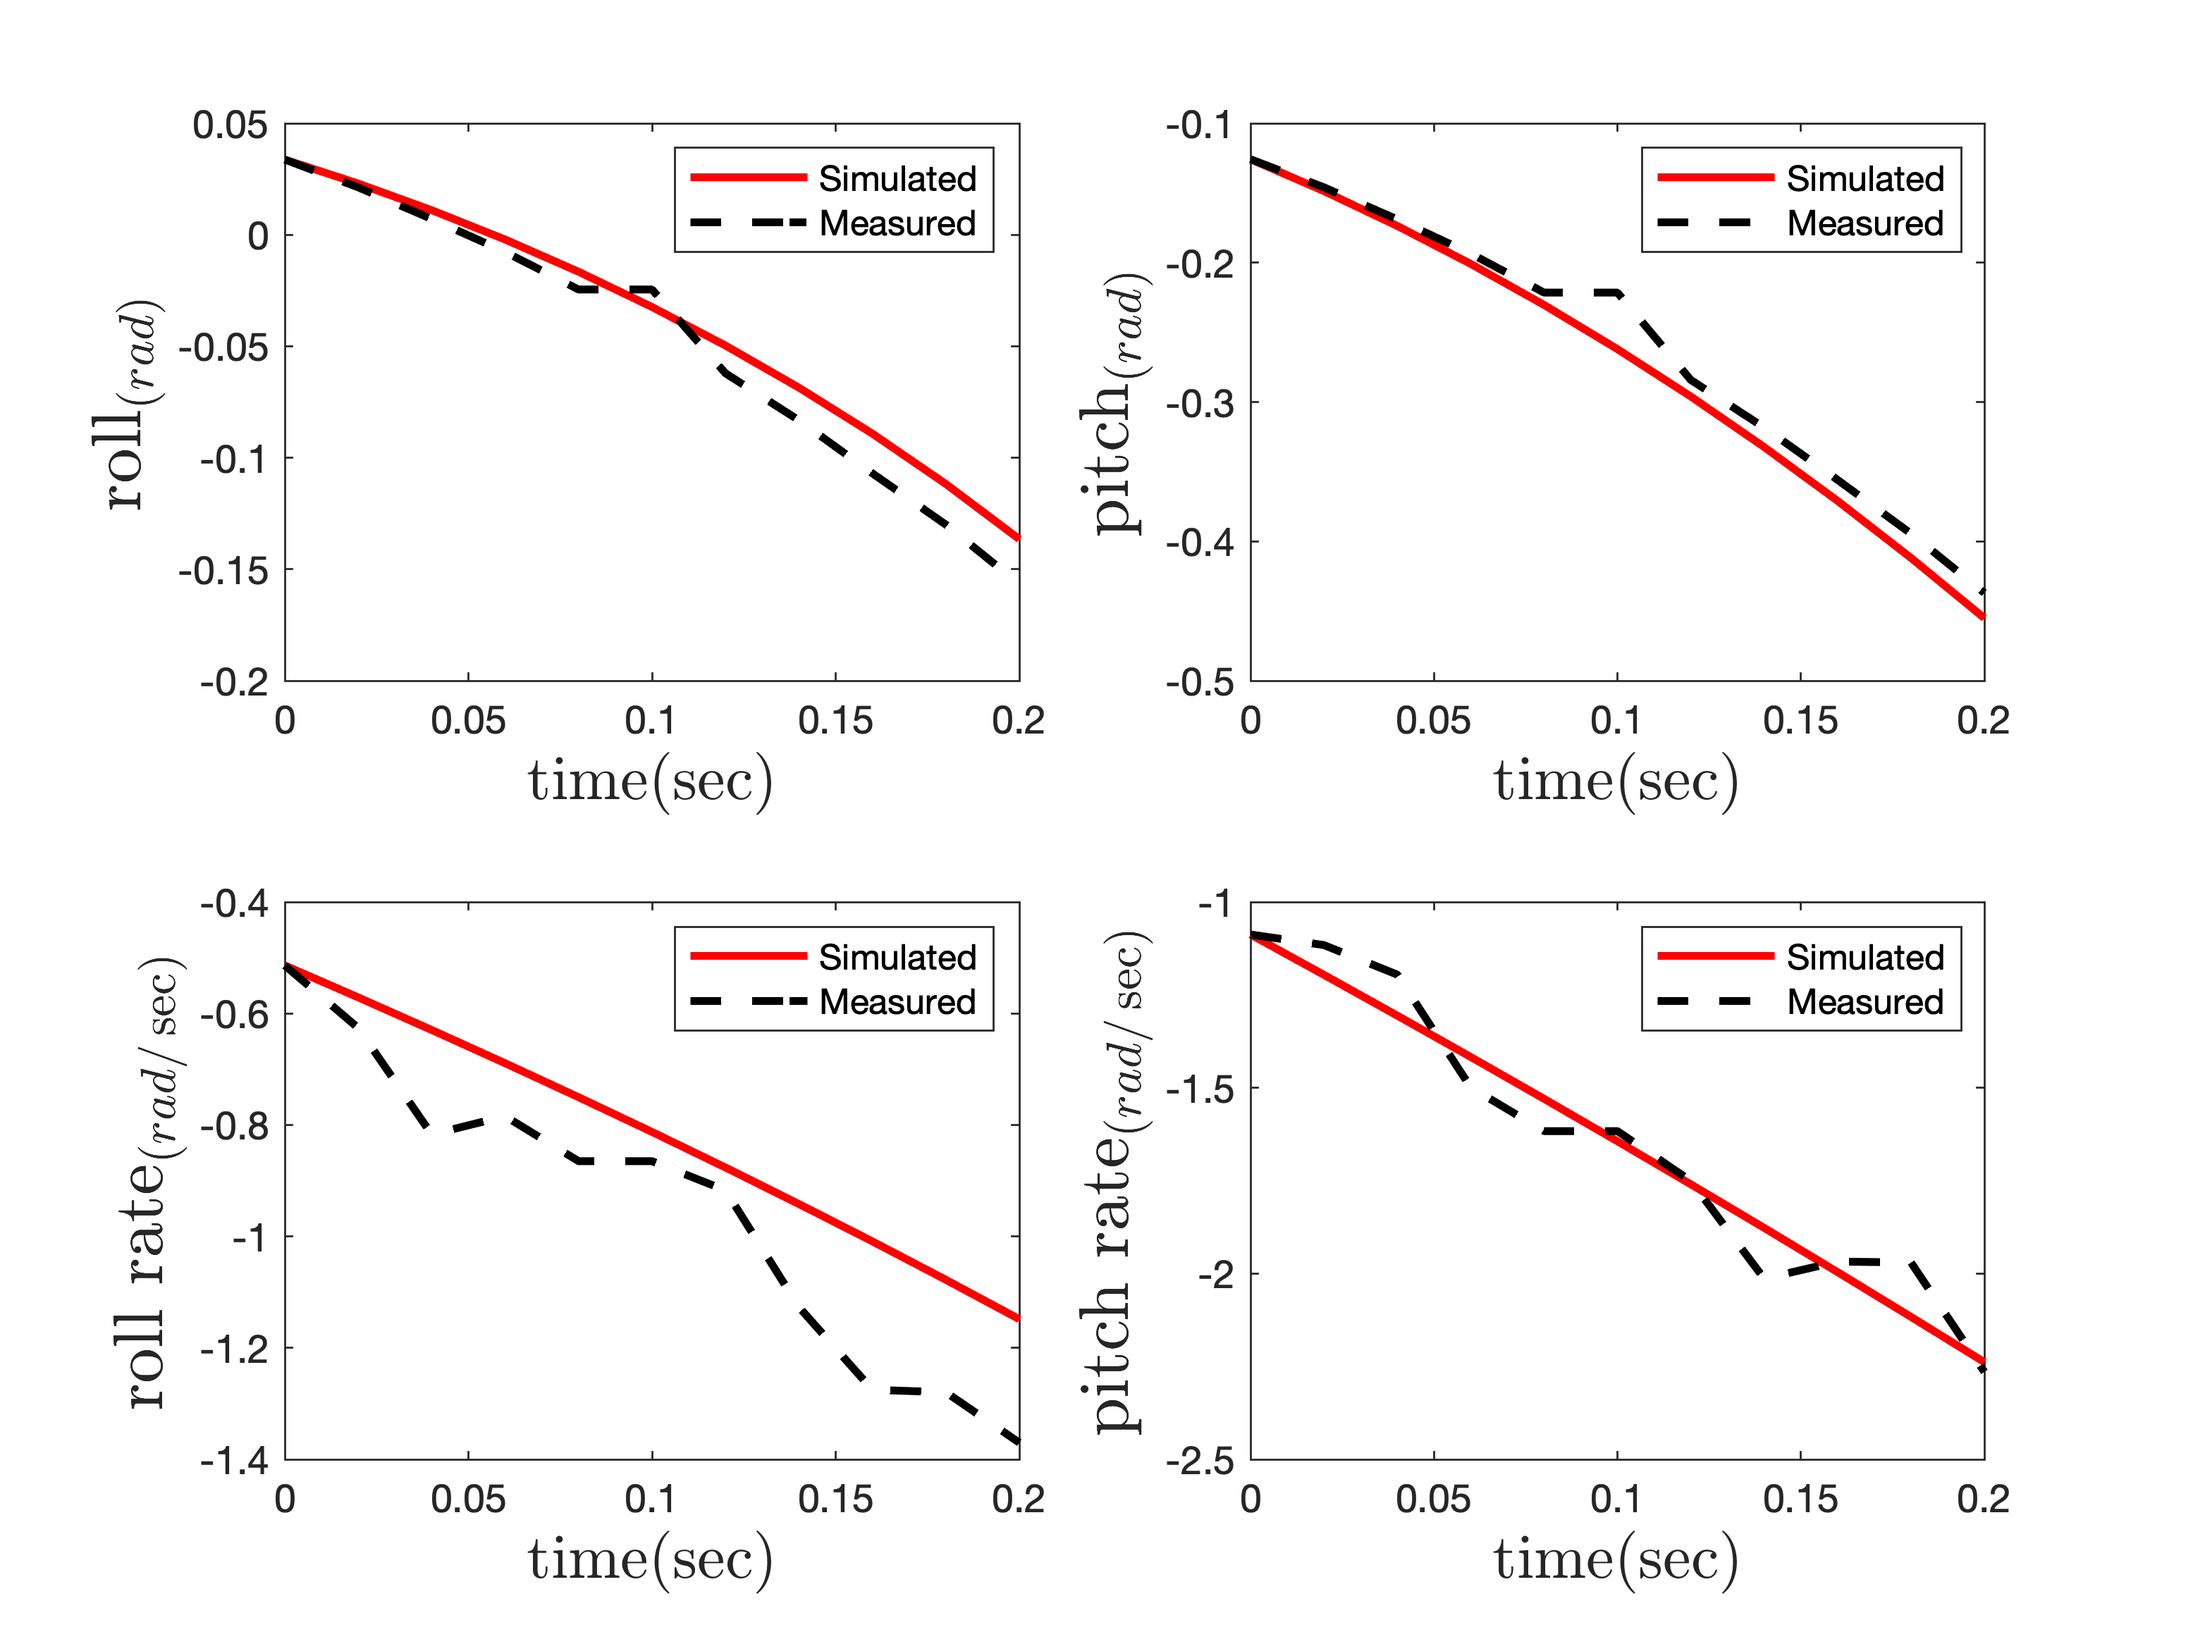
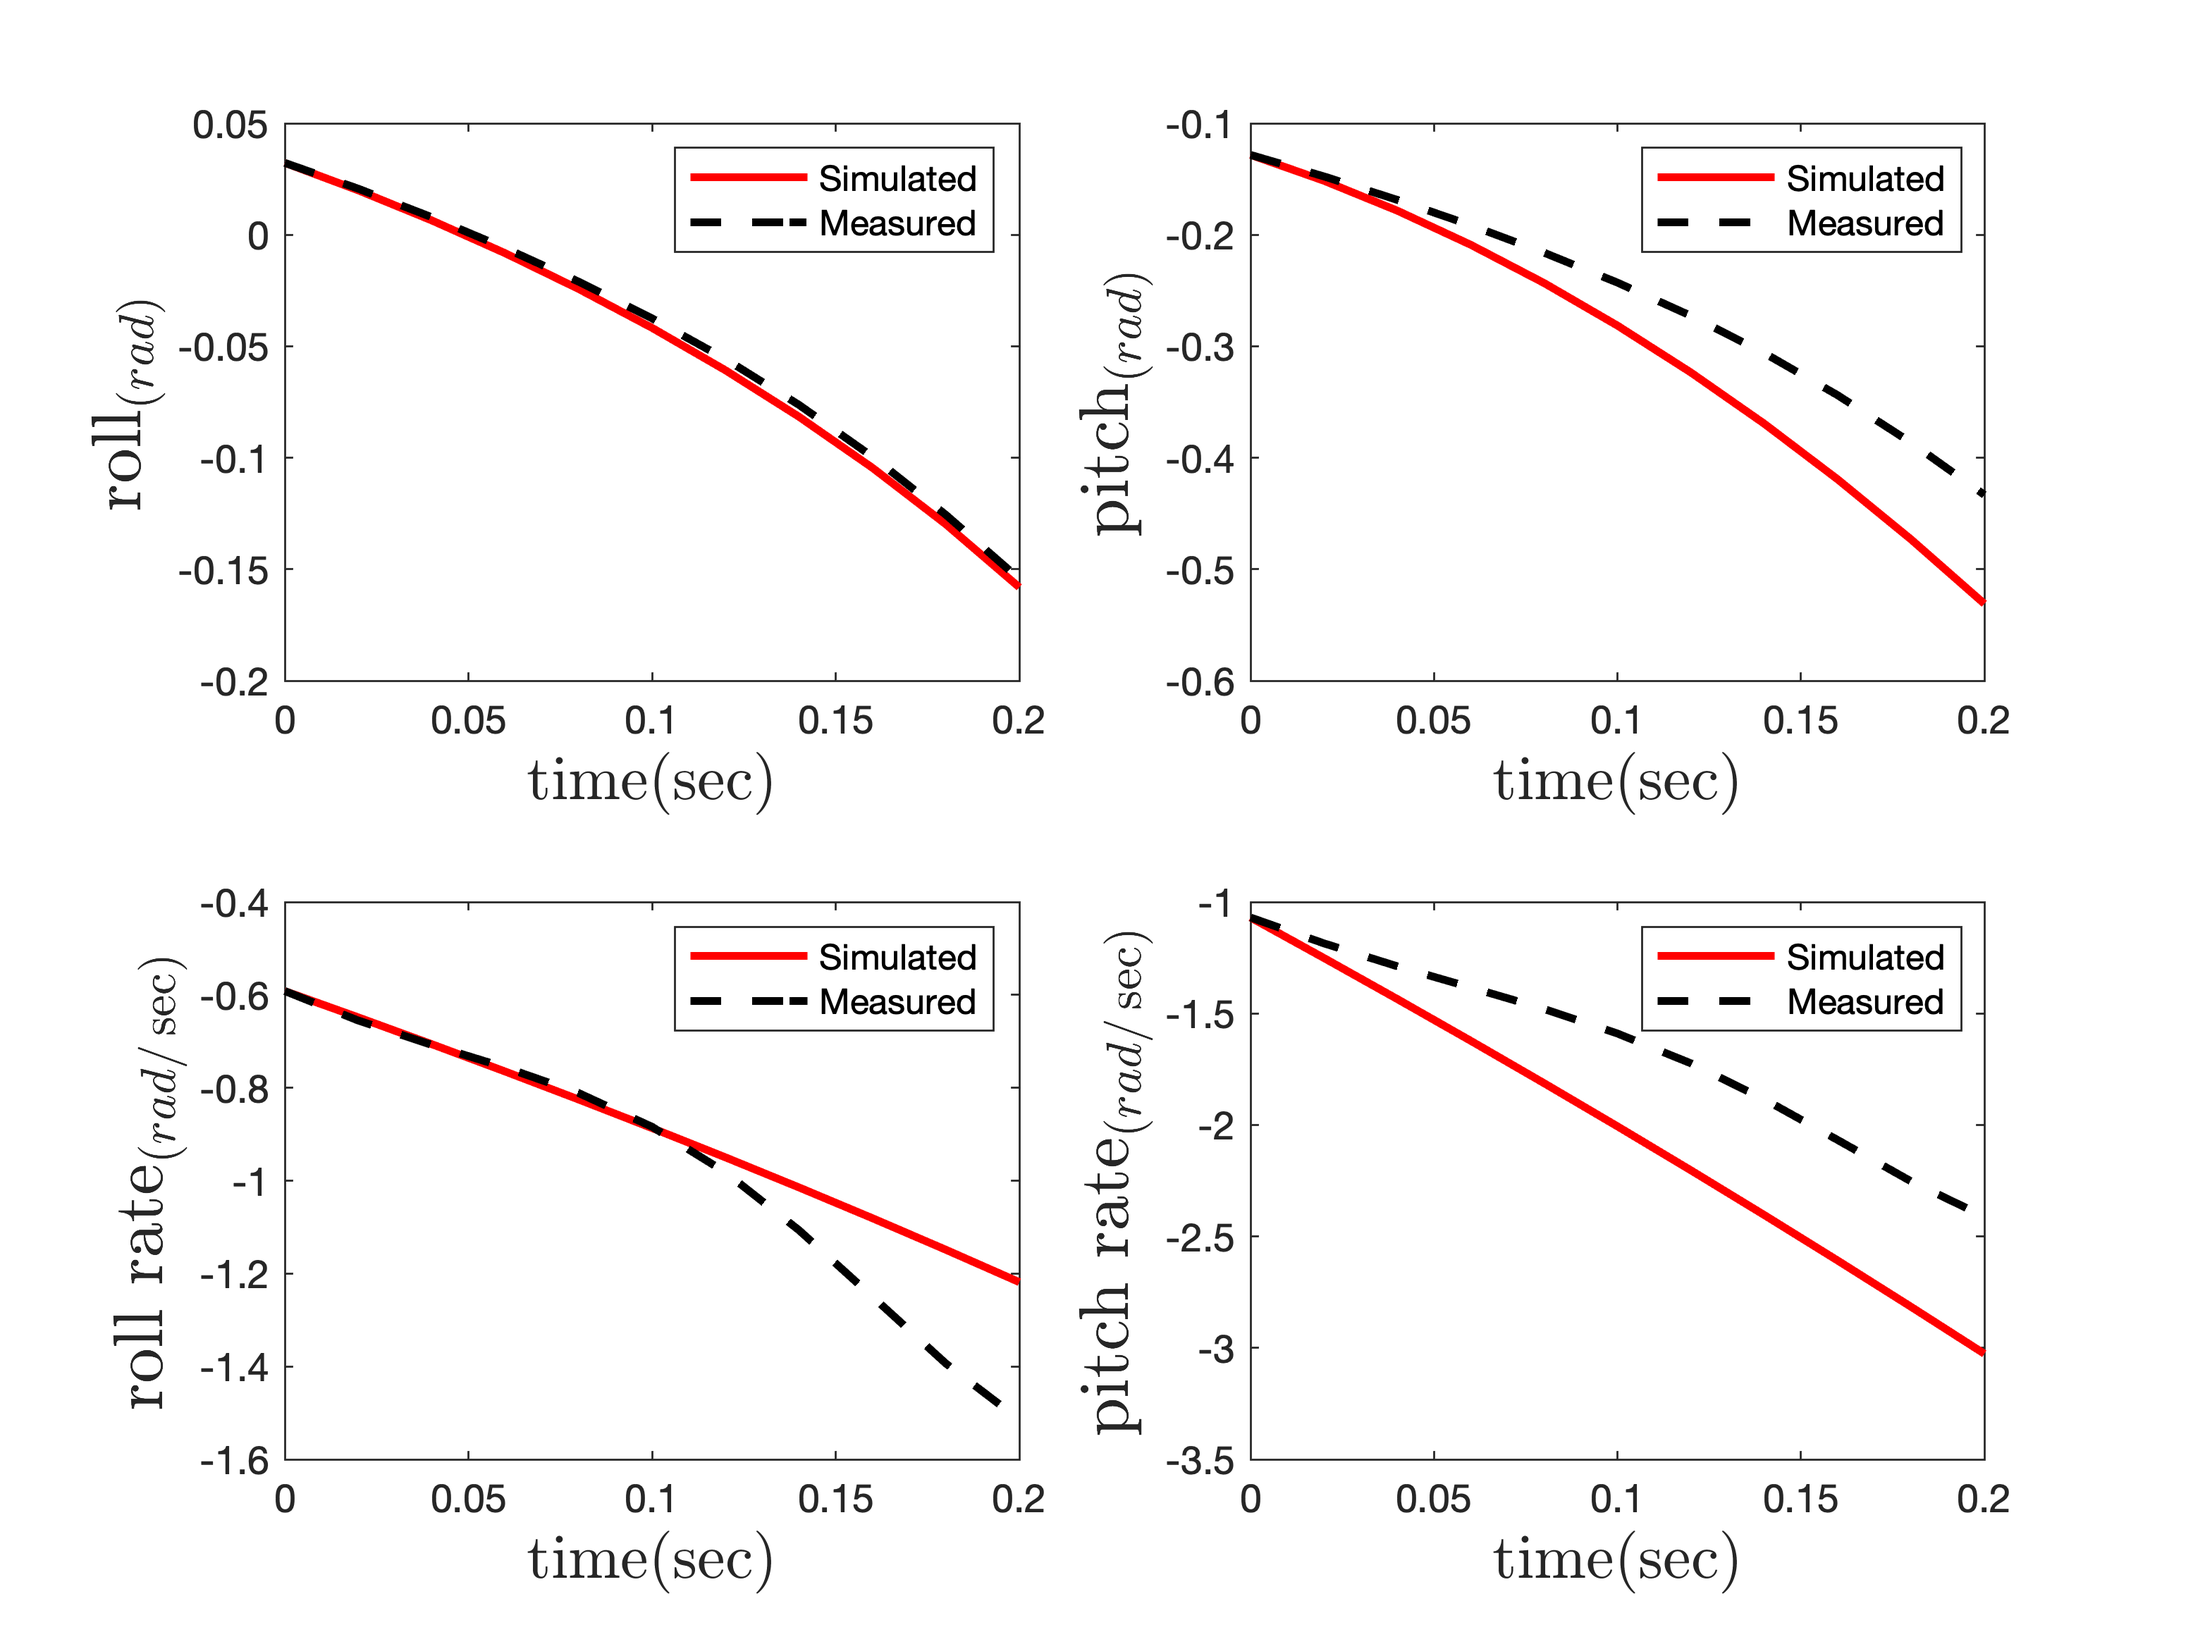
add low pass filter and add new ps for solve

diff --git a/Code/Simulink/Quadcopter/RCP/OpenLoop/Roll-Pitch/parameter_estimation/PS_VI.m b/Code/Simulink/Quadcopter/RCP/OpenLoop/Roll-Pitch/parameter_estimation/PS_VI.m
@@ -1,6 +1,7 @@
 load('../Scenario_VI');
-roll  = AHRS(:, 1);
 AHRS = -AHRS;
+AHRS = lowpass(AHRS, 50, 1e3);
+roll  = AHRS(:, 1);
 pitch = AHRS(:, 2);
 p     = AHRS(:, 4);
 q     = AHRS(:, 5);

diff --git a/Code/Simulink/Quadcopter/RCP/OpenLoop/Roll-Pitch/parameter_estimation/PS_VIII.m b/Code/Simulink/Quadcopter/RCP/OpenLoop/Roll-Pitch/parameter_estimation/PS_VIII.m
@@ -1,5 +1,6 @@
 load('../Scenario_VIII');
 AHRS = -AHRS;
+AHRS = lowpass(AHRS, 50, 1e3);
 roll  = AHRS(:, 1);
 pitch = AHRS(:, 2);
 p     = AHRS(:, 4);

diff --git a/Code/Simulink/Quadcopter/RCP/OpenLoop/Roll-Pitch/parameter_estimation/PS_III.m b/Code/Simulink/Quadcopter/RCP/OpenLoop/Roll-Pitch/parameter_estimation/PS_III.m
@@ -1,5 +1,6 @@
 load('../Scenario_III');
 AHRS = -AHRS;
+AHRS = lowpass(AHRS, 50, 1e3);
 roll  = AHRS(:, 1);
 pitch = AHRS(:, 2);
 p     = AHRS(:, 4);

diff --git a/Code/Simulink/Quadcopter/RCP/OpenLoop/Roll-Pitch/parameter_estimation/PS_VII.m b/Code/Simulink/Quadcopter/RCP/OpenLoop/Roll-Pitch/parameter_estimation/PS_VII.m
@@ -1,5 +1,6 @@
 load('../Scenario_VII');
 AHRS = -AHRS;
+AHRS = lowpass(AHRS, 50, 1e3);
 roll  = AHRS(:, 1);
 pitch = AHRS(:, 2);
 p     = AHRS(:, 4);

diff --git a/Code/Simulink/Quadcopter/RCP/OpenLoop/Roll-Pitch/parameter_estimation/PS_II.m b/Code/Simulink/Quadcopter/RCP/OpenLoop/Roll-Pitch/parameter_estimation/PS_II.m
@@ -1,5 +1,6 @@
 load('../Scenario_II');
 AHRS = -AHRS;
+AHRS = lowpass(AHRS, 50, 1e3);
 roll  = AHRS(:, 1);
 pitch = AHRS(:, 2);
 p     = AHRS(:, 4);

diff --git a/Code/Simulink/Quadcopter/RCP/OpenLoop/Roll-Pitch/parameter_estimation/PS_IV.m b/Code/Simulink/Quadcopter/RCP/OpenLoop/Roll-Pitch/parameter_estimation/PS_IV.m
@@ -1,5 +1,6 @@
 load('../Scenario_IV');
 AHRS = -AHRS;
+AHRS = lowpass(AHRS, 50, 1e3);
 roll  = AHRS(:, 1);
 pitch = AHRS(:, 2);
 p     = AHRS(:, 4);

diff --git a/Code/Simulink/Quadcopter/RCP/OpenLoop/Roll-Pitch/parameter_estimation/PS_IX.m b/Code/Simulink/Quadcopter/RCP/OpenLoop/Roll-Pitch/parameter_estimation/PS_IX.m
@@ -1,5 +1,6 @@
 load('../Scenario_IX');
 AHRS = -AHRS;
+AHRS = lowpass(AHRS, 50, 1e3);
 roll  = AHRS(:, 1);
 pitch = AHRS(:, 2);
 p     = AHRS(:, 4);

diff --git a/Code/Simulink/Quadcopter/RCP/OpenLoop/Roll-Pitch/parameter_estimation/PS_I.m b/Code/Simulink/Quadcopter/RCP/OpenLoop/Roll-Pitch/parameter_estimation/PS_I.m
@@ -1,5 +1,6 @@
 load('../Scenario_I');
 AHRS = -AHRS;
+AHRS = lowpass(AHRS, 50, 1e3);
 roll  = AHRS(:, 1);
 pitch = AHRS(:, 2);
 p     = AHRS(:, 4);

diff --git a/Code/Simulink/Quadcopter/RCP/OpenLoop/Roll-Pitch/parameter_estimation/PS_V.m b/Code/Simulink/Quadcopter/RCP/OpenLoop/Roll-Pitch/parameter_estimation/PS_V.m
@@ -1,5 +1,6 @@
 load('../Scenario_V');
 AHRS = -AHRS;
+AHRS = lowpass(AHRS, 50, 1e3);
 roll  = AHRS(:, 1);
 pitch = AHRS(:, 2);
 p     = AHRS(:, 4);

diff --git a/Code/Simulink/Quadcopter/RCP/OpenLoop/Roll-Pitch/parameter_estimation/PS_X.m b/Code/Simulink/Quadcopter/RCP/OpenLoop/Roll-Pitch/parameter_estimation/PS_X.m
@@ -1,5 +1,6 @@
 load('../Scenario_X');
 AHRS = -AHRS;
+AHRS = lowpass(AHRS, 50, 1e3);
 roll  = AHRS(:, 1);
 pitch = AHRS(:, 2);
 p     = AHRS(:, 4);
